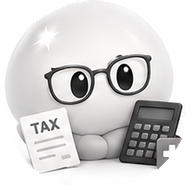
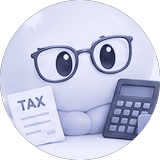
Life Score: via «Organizzazione», nuova categoria «Relazioni» e pesi basati su ciò che conta di più per il benessere; facce di Theia più leggibili (volto in primo piano, colori di Theia)
Claude-Session: https://claude.ai/code/session_012ZsaXqeNX3UFZS9xLuGma2

diff --git a/src/lib/lifeBalance.ts b/src/lib/lifeBalance.ts
@@ -17,14 +17,14 @@ export const levelOf = (score: number): BalanceLevel => (score >= 75 ? 'ok' : sc
 
 type CatDef = { id: string; label: string; about: string; how: string; ref: string; metrics: string[]; weight: number };
 export const CATS: CatDef[] = [
-  { id: 'sonno', label: 'Sonno', about: 'Quanto dormi, in media, rispetto alle 7-9 ore consigliate.', how: 'Media delle ultime 7 notti. 100 se stai tra 7 e 9 ore, più ti allontani, più scende.', ref: '7-9 ore a notte.', metrics: ['sleep'], weight: 1.3 },
-  { id: 'movimento', label: 'Movimento', about: 'Passi, minuti di esercizio, calorie attive e allenamenti.', how: 'Per ogni dato (passi, distanza, piani, esercizio, energia attiva, allenamenti) si confronta la media di 7 giorni con l\'obiettivo. Il punteggio è la media dei dati che hai.', ref: '10.000 passi, 30 minuti di esercizio, 400 kcal attive, 3 allenamenti a settimana.', metrics: ['steps', 'distance', 'flights', 'exercise', 'energy', 'training'], weight: 1.1 },
-  { id: 'cuore', label: 'Cuore e recupero', about: 'Battito a riposo, HRV, ossigeno e forma fisica: dicono quanto il corpo recupera.', how: 'Media di 7 giorni di battito a riposo (più basso è meglio), HRV, ossigeno e respiri al minuto rispetto ai valori sani. Servono dati da orologio o inseriti a mano.', ref: 'Ossigeno 95-100%, respiri 12-20 al minuto. Battito e HRV migliorano nel tempo.', metrics: ['hr', 'hrv', 'vo2', 'spo2', 'resp'], weight: 1 },
-  { id: 'stress', label: 'Stress', about: 'Livello di stress stimato da battito e HRV.', how: 'Media di 7 giorni dello stress (0-100, stimato da battito e HRV o inserito da te). 100 se resta sotto 45 (sopra, il punteggio scende).', ref: 'Sotto 45 su 100.', metrics: ['stress'], weight: 1.3 },
+  { id: 'sonno', label: 'Sonno', about: 'Quanto dormi, in media, rispetto alle 7-9 ore consigliate.', how: 'Media delle ultime 7 notti. 100 se stai tra 7 e 9 ore, più ti allontani, più scende.', ref: '7-9 ore a notte.', metrics: ['sleep'], weight: 1.5 },
+  { id: 'movimento', label: 'Movimento', about: 'Passi, minuti di esercizio, calorie attive e allenamenti.', how: 'Per ogni dato (passi, distanza, piani, esercizio, energia attiva, allenamenti) si confronta la media di 7 giorni con l\'obiettivo. Il punteggio è la media dei dati che hai.', ref: '10.000 passi, 30 minuti di esercizio, 400 kcal attive, 3 allenamenti a settimana.', metrics: ['steps', 'distance', 'flights', 'exercise', 'energy', 'training'], weight: 1.5 },
+  { id: 'cuore', label: 'Cuore e recupero', about: 'Battito a riposo, HRV, ossigeno e forma fisica: dicono quanto il corpo recupera.', how: 'Media di 7 giorni di battito a riposo (più basso è meglio), HRV, ossigeno e respiri al minuto rispetto ai valori sani. Servono dati da orologio o inseriti a mano.', ref: 'Ossigeno 95-100%, respiri 12-20 al minuto. Battito e HRV migliorano nel tempo.', metrics: ['hr', 'hrv', 'vo2', 'spo2', 'resp'], weight: 1.0 },
+  { id: 'stress', label: 'Stress', about: 'Livello di stress stimato da battito e HRV.', how: 'Media di 7 giorni dello stress (0-100, stimato da battito e HRV o inserito da te). 100 se resta sotto 45 (sopra, il punteggio scende).', ref: 'Sotto 45 su 100.', metrics: ['stress'], weight: 1.2 },
   { id: 'mente', label: 'Mente e umore', about: 'Umore dei check-in e minuti di mindfulness.', how: 'Umore dei tuoi check-in (da 1 a 5) rispetto a 3,5 e minuti di mindfulness al giorno rispetto a 10: media dei due.', ref: 'Umore almeno 3,5 su 5 e 10 minuti di mindfulness al giorno.', metrics: ['mood', 'mindful'], weight: 1.2 },
-  { id: 'cibo', label: 'Alimentazione', about: 'Qualità di quello che mangi (calorie, proteine, fibre, zuccheri, sale).', how: 'Punteggio di qualità dei pasti registrati in LifeFitness (calorie, proteine, fibre, zuccheri, grassi saturi, sale — il cibo spazzatura lo abbassa), rispetto a 85.', ref: '85 su 100 o più.', metrics: ['diet'], weight: 1 },
-  { id: 'soldi', label: 'Soldi e serenità', about: 'Risparmio, saldo e spese: i soldi pesano sulla testa più di quanto sembri.', how: 'Tasso di risparmio degli ultimi mesi rispetto al 20% del reddito, insieme a saldo e spese del mese.', ref: 'Risparmio almeno il 20% di quanto entra.', metrics: ['savings', 'balance', 'spending', 'dailyspend'], weight: 0.9 },
-  { id: 'organizzazione', label: 'Organizzazione', about: 'Task completati: sentirsi «in pari» riduce la tensione.', how: 'Quante task completi in media al giorno negli ultimi 7 giorni, rispetto a 2 al giorno. Se non ne completi nessuna, il punteggio è 0.', ref: '2 task completate al giorno.', metrics: ['tasks'], weight: 0.8 },
+  { id: 'relazioni', label: 'Relazioni', about: 'Con quante persone parli ogni giorno: le relazioni sono tra i fattori che pesano di più sul benessere e sulla salute a lungo termine.', how: 'Media di 7 giorni delle persone con cui parli ogni giorno: quelle a cui scrivi nelle chat e, se vuoi, quelle che inserisci a mano. Obiettivo: almeno 3 al giorno.', ref: 'Almeno 3 persone al giorno.', metrics: ['social'], weight: 1.0 },
+  { id: 'cibo', label: 'Alimentazione', about: 'Qualità di quello che mangi (calorie, proteine, fibre, zuccheri, sale).', how: 'Punteggio di qualità dei pasti registrati in LifeFitness (calorie, proteine, fibre, zuccheri, grassi saturi, sale — il cibo spazzatura lo abbassa), rispetto a 85.', ref: '85 su 100 o più.', metrics: ['diet'], weight: 0.9 },
+  { id: 'soldi', label: 'Soldi e serenità', about: 'Risparmio, saldo e spese: i soldi pesano sulla testa più di quanto sembri.', how: 'Tasso di risparmio degli ultimi mesi rispetto al 20% del reddito, insieme a saldo e spese del mese.', ref: 'Risparmio almeno il 20% di quanto entra.', metrics: ['savings', 'balance', 'spending', 'dailyspend'], weight: 0.6 },
 ];
 
 const num = (v: number, dec: number) => String(Math.round(v * 10 ** dec) / 10 ** dec).replace('.', ',');
@@ -71,6 +71,7 @@ const TIPS: Record<string, { low?: string[]; high?: string[] }> = {
   balance: { low: ['Rivedi le spese variabili del mese: il saldo è in calo più del previsto.'] },
   spending: { high: ['Guarda la categoria di spesa che cresce di più e fissa un tetto per le prossime due settimane.'] },
   dailyspend: { high: ['Scegli due giorni a settimana «a spesa zero» per riportare la media giornaliera giù.'] },
+  social: { low: ['Scrivi o chiama oggi una persona a cui tieni: bastano due minuti.', 'Fissa nel Plan un caffè o una passeggiata con qualcuno questa settimana.', 'Le relazioni contano molto: anche poche persone, ma sentite spesso, fanno la differenza.'] },
   tasks: { low: ['Scegli ogni mattina le 3 cose che contano e fai prima la più difficile.', 'Spezza le task grandi in passi da 10 minuti.'] },
 };
 

diff --git a/src/lib/analyticsData.ts b/src/lib/analyticsData.ts
@@ -10,6 +10,8 @@ import { categoryOf, useFin, monthEnd, type FinMonth } from '@/store/finance';
 import { healthMeta, pointsOf, useHealth, type Metric } from '@/store/health';
 import { useContext } from '@/store/context';
 import { useLife } from '@/store/life';
+import { useChat } from '@/store/chat';
+import { useApp } from '@/store/app';
 import { useFitness } from '@/store/fitness';
 import { dailyTargets } from '@/lib/fitness/nutrition';
 import { dietSeries, trainingSeries } from '@/lib/fitness/scoreInputs';
@@ -31,6 +33,7 @@ export const defs: Record<string, MetricDef> = {
   spo2: H('spo2', { better: 'range', range: [95, 100], label: 'Ossigeno' }),
   stress: H('stress', { domain: 'mente', better: 'down', target: 45, label: 'Stress (stimato)', derivedFrom: ['hrv', 'hr'] }),
   mindful: H('mindful', { domain: 'mente', target: 10 }),
+  social: { id: 'social', label: 'Persone con cui hai parlato', unit: '/giorno', domain: 'mente', better: 'up', target: 3, dec: 1, color: '#c9b6ff', period: 'day' },
   distance: { id: 'distance', label: 'Distanza a piedi e di corsa', unit: 'km', domain: 'salute', better: 'up', target: 5, dec: 1, color: '#7bb8e0', period: 'day' },
   flights: { id: 'flights', label: 'Piani saliti', unit: '', domain: 'salute', better: 'up', target: 10, dec: 0, color: '#6ec9dd', period: 'day' },
   resp: { id: 'resp', label: 'Respiri al minuto', unit: '/min', domain: 'salute', better: 'range', range: [12, 20], dec: 1, color: '#9be0e0', period: 'day' },
@@ -101,6 +104,27 @@ export function collect(today = todayStr()): Series[] {
     const pts = h.extra?.[k] ?? [];
     if (pts.length) out.push({ def: defs[k], pts, source: 'manuale' });
   });
+
+  /* relazioni: con quante persone hai parlato ogni giorno. Dalle chat (a chi hai scritto) e, se vuoi, inserito a mano (vale il più alto dei due) */
+  {
+    const me = useApp.getState().account.name;
+    const chat = useChat.getState();
+    const per = new Map<string, Set<string>>();
+    for (const [cid, msgs] of Object.entries(chat.messages)) {
+      const c = chat.chats[cid];
+      if (!c || c.type === 'club') continue;
+      for (const m of msgs) {
+        if (m.from !== me || m.kind === 'system' || Date.now() - m.ts > 40 * 86400000) continue;
+        const d = dayKey(new Date(m.ts));
+        (per.get(d) ?? per.set(d, new Set()).get(d)!).add(cid);
+      }
+    }
+    const byDay = new Map<string, number>();
+    per.forEach((set, d) => byDay.set(d, set.size));
+    (h.extra?.social ?? []).forEach((p) => byDay.set(p.d, Math.max(byDay.get(p.d) ?? 0, p.v)));
+    const pts = [...byDay.entries()].map(([d, v]) => ({ d, v })).sort((a, b) => a.d.localeCompare(b.d));
+    if (pts.length) out.push({ def: defs.social, pts, source: 'manuale' });
+  }
 
   const moods = h.moods.map((x) => ({ d: x.day ?? ddmmToDay(x.date, today), v: moodScore[x.mood] ?? 3 }));
   if (moods.length) {

diff --git a/src/lib/healthManual.ts b/src/lib/healthManual.ts
@@ -3,7 +3,7 @@
  * Servono all'analisi incrociata e al punteggio «La tua vita in un dato». Modulo PURO.
  */
 export type ManualKey = 'sleep' | 'hr' | 'steps' | 'weight' | 'stress' | 'hrv' | 'mindful' | 'energy' | 'exercise' | 'vo2' | 'spo2'
-  | 'distance' | 'flights' | 'resp' | 'fat' | 'stand' | 'hravg' | 'basal';
+  | 'distance' | 'flights' | 'resp' | 'fat' | 'stand' | 'hravg' | 'basal' | 'social';
 export type ManualField = { key: ManualKey; label: string; unit: string; placeholder: string; min: number; max: number; /** dato che vive nelle «altre» serie */ extra?: boolean };
 export type ManualGroup = { id: string; title: string; fields: ManualField[] };
 
@@ -20,7 +20,7 @@ export const MANUAL_GROUPS: ManualGroup[] = [
     f('spo2', 'Ossigeno nel sangue', '%', '97', 70, 100), f('resp', 'Respiri al minuto', '/min', '15', 4, 60, true), f('vo2', 'VO₂ max', 'ml/kg/min', '42', 10, 90),
   ] },
   { id: 'corpo', title: 'Corpo', fields: [f('weight', 'Peso', 'kg', '72.5', 20, 400), f('fat', 'Massa grassa', '%', '18', 2, 70, true), f('basal', 'Energia a riposo', 'kcal', '1600', 500, 6000, true)] },
-  { id: 'mente', title: 'Mente', fields: [f('stress', 'Stress (0-100)', '/100', '35', 0, 100), f('mindful', 'Mindfulness', 'min', '10', 0, 1440)] },
+  { id: 'mente', title: 'Mente', fields: [f('stress', 'Stress (0-100)', '/100', '35', 0, 100), f('mindful', 'Mindfulness', 'min', '10', 0, 1440), f('social', 'Persone con cui hai parlato', '', '3', 0, 200, true)] },
 ];
 export const MANUAL_FIELDS: ManualField[] = MANUAL_GROUPS.flatMap((g) => g.fields);
 

diff --git a/src/store/health.ts b/src/store/health.ts
@@ -27,7 +27,7 @@ export const healthMeta: Record<Metric, { label: string; unit: string; color: st
 export const allMetrics = Object.keys(healthMeta) as Metric[];
 
 /** Altri dati dell'orologio (non hanno una scheda tutta loro): una serie al giorno, tenuta a parte così i dati già salvati non cambiano forma. */
-export type ExtraKey = 'distance' | 'flights' | 'resp' | 'fat' | 'stand' | 'hravg' | 'basal';
+export type ExtraKey = 'distance' | 'flights' | 'resp' | 'fat' | 'stand' | 'hravg' | 'basal' | 'social';
 export const extraMeta: Record<ExtraKey, { label: string; unit: string; dec: number; /** somma nel giorno (true) o media */ sum: boolean }> = {
   distance: { label: 'Distanza a piedi e di corsa', unit: 'km', dec: 1, sum: true },
   flights: { label: 'Piani saliti', unit: '', dec: 0, sum: true },
@@ -36,6 +36,8 @@ export const extraMeta: Record<ExtraKey, { label: string; unit: string; dec: num
   stand: { label: 'Tempo in piedi', unit: 'min', dec: 0, sum: true },
   hravg: { label: 'Battito medio', unit: 'bpm', dec: 0, sum: false },
   basal: { label: 'Energia a riposo', unit: 'kcal', dec: 0, sum: true },
+  /** inserito a mano: con quante persone hai parlato (non viene dall'orologio) */
+  social: { label: 'Persone con cui hai parlato', unit: '', dec: 0, sum: false },
 };
 
 export const moodOptions: [string, string][] = [['Felice', '#7be0b0'], ['Calmo', '#7bb8e0'], ['Neutro', '#8e98a8'], ['Stressato', '#e0c97b'], ['Triste', '#7c93c9'], ['Arrabbiato', '#ff9d9d']];

diff --git a/src/app/(tabs)/lifehealth.tsx b/src/app/(tabs)/lifehealth.tsx
@@ -113,11 +113,11 @@ export default function LifeHealth() {
         <Btn small ghost style={{ marginTop: 10 }} title="Inserisci i dati a mano" onPress={() => { setToday({}); setSheet('today'); }} />
       </Card>
 
-      {(Object.keys(extraMeta) as ExtraKey[]).some((k) => (h.extra?.[k]?.length ?? 0) > 0) ? (
+      {(Object.keys(extraMeta) as ExtraKey[]).filter((k) => k !== 'social').some((k) => (h.extra?.[k]?.length ?? 0) > 0) ? (
         <Card>
           <H>Altri dati dall’orologio</H>
           <Body small muted style={{ marginBottom: 4 }}>Ultimo valore e media degli ultimi 7 giorni, come arrivano da {hub}.</Body>
-          {(Object.keys(extraMeta) as ExtraKey[]).filter((k) => (h.extra?.[k]?.length ?? 0) > 0).map((k, i) => {
+          {(Object.keys(extraMeta) as ExtraKey[]).filter((k) => k !== 'social').filter((k) => (h.extra?.[k]?.length ?? 0) > 0).map((k, i) => {
             const pts = h.extra[k]!, m = extraMeta[k], last = pts[pts.length - 1], w = pts.slice(-7), avg = w.reduce((a, b) => a + b.v, 0) / w.length;
             const f = (v: number) => `${v.toFixed(m.dec).replace('.', ',')}${m.unit ? ' ' + m.unit : ''}`;
             return <Row key={k} style={{ paddingVertical: 8, borderTopWidth: i ? 1 : 0, borderTopColor: t.item }}><View style={{ flex: 1 }}><Body>{m.label}</Body><Body small muted>{tl('Media 7 giorni: {0}', f(avg))}</Body></View><Body bold>{f(last.v)}</Body></Row>;

diff --git a/src/app/(tabs)/ai.tsx b/src/app/(tabs)/ai.tsx
@@ -188,7 +188,7 @@ export default function LifeChat() {
               const me = item.who === 'me';
               return (
                 <View style={{ marginVertical: 4, flexDirection: 'row', alignItems: 'flex-end', gap: 6, justifyContent: me ? 'flex-end' : 'flex-start' }}>
-                  {!me && showM ? (() => { const av = avatarFor(item.topic, item.ext?.avatar); return av ? <TheiaFace id={av} size={36} /> : <Mascot size={34} color={t.accent} expression={moodOf(item.text)} animated={item.id === lastAi?.id} ritual={false} />; })() : null}
+                  {!me && showM ? (() => { const av = avatarFor(item.topic, item.ext?.avatar); return av ? <TheiaFace id={av} size={40} /> : <Mascot size={34} color={t.accent} expression={moodOf(item.text)} animated={item.id === lastAi?.id} ritual={false} />; })() : null}
                   <View style={{ flexShrink: 1, maxWidth: '88%' }}>
                   <View style={{ alignSelf: me ? 'flex-end' : 'flex-start', maxWidth: '100%', backgroundColor: me ? '#e6ebf3' : t.aiMsg, borderColor: t.aiMsgBorder, borderWidth: me ? 0 : 1, borderRadius: 18, padding: 12 }}>
                     {item.image ? <Image source={{ uri: item.image }} style={{ width: 160, height: 100, borderRadius: 10, marginBottom: 6 }} contentFit="cover" /> : null}
